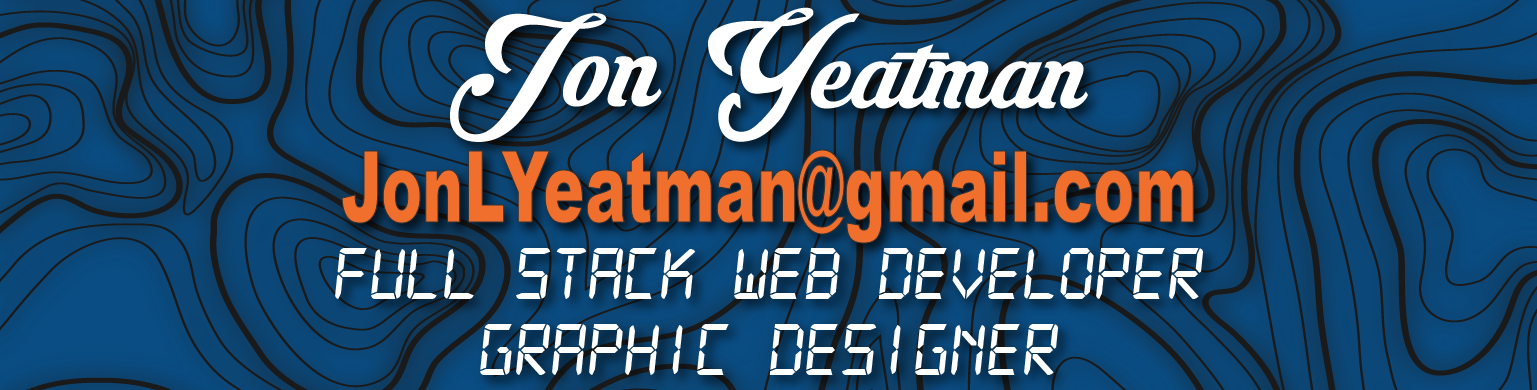
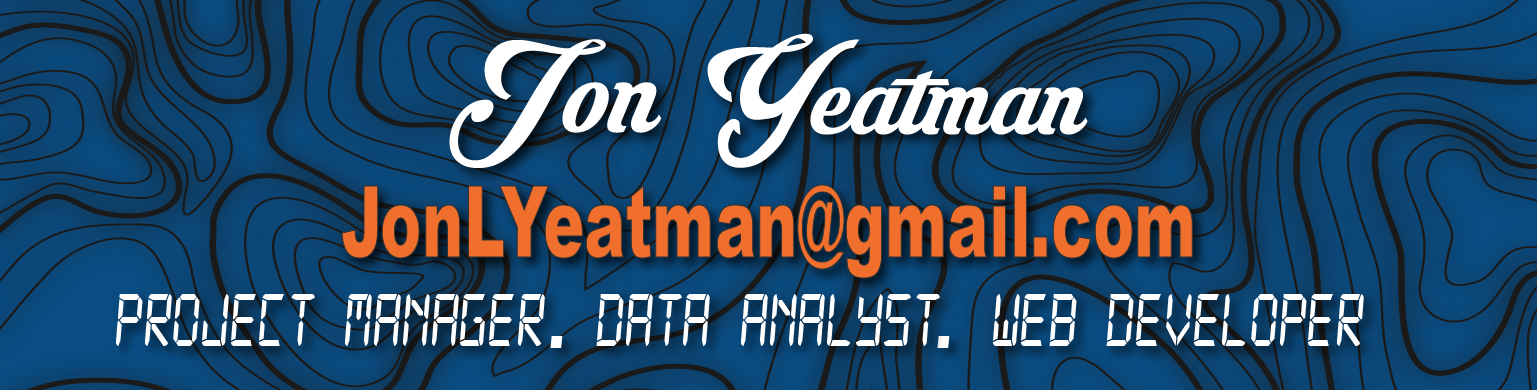
img update

diff --git a/README.md b/README.md
@@ -1,5 +1,5 @@
 <div align="center">
-<img src="JonYeatmanTimeline.png" alt=" Yeatman header photo" align="center">
+<img src="JonYeatmanTimeline.png" alt=" Jon Yeatman header photo" align="center">
 </div>
 <br>
 
@@ -9,7 +9,7 @@
 <!-- <img src="readme_banner.png" alt="header photo"><br> -->
 
 ## About Me
-Experienced Business Owner with a demonstrated history of working in the computer software and graphics industry. Skilled in Business Planning, Operations Management, Web Design, HTML, CSS, and JavaScript. Strong operations professional with a Certificate focused in Full Stack Web Development from Michigan State University.
+Experienced Business Owner with a demonstrated history of working in the computer software and graphics industry. Skilled in Business Planning, Operations Management, Data Analysis, Web Development, and Graphic Design. Strong operations professional with a Certificate focused in Full Stack Web Development from Michigan State University.
 
 ---
 
@@ -23,6 +23,9 @@ http://www.jonlyeatman.com
 
 <div align="center">
   <img align="center" src="https://github-readme-stats.vercel.app/api?username=Yeatman51&show_icons=true&theme=react" alt="Yeatman Github Stats photo"/>
+
+  <!-- [![DenverCoder1's github streak](https://github-readme-streak-stats.herokuapp.com/?user=Yeatman51&theme=blue-green)](https://github.com/DenverCoder1/github-readme-streak-stats) -->
+
 </div>
 
 
@@ -31,7 +34,7 @@ http://www.jonlyeatman.com
 ### Languages
 
 <div align="center">
-    <img align="center" src="https://github-readme-stats.vercel.app/api/top-langs/?username=Yeatman51&langs_count=8" alt="Yeatman Languages"/>
+    <img align="center" src="https://github-readme-stats.vercel.app/api/top-langs/?username=Yeatman51&langs_count=13" alt="Yeatman Languages"/>
 </div>
 
 <!-- [![Top Langs](https://github-readme-stats.vercel.app/api/top-langs/?username=Yeatman51&langs_count=7)](https://github.com/Yeatman51/github-readme-stats) -->
